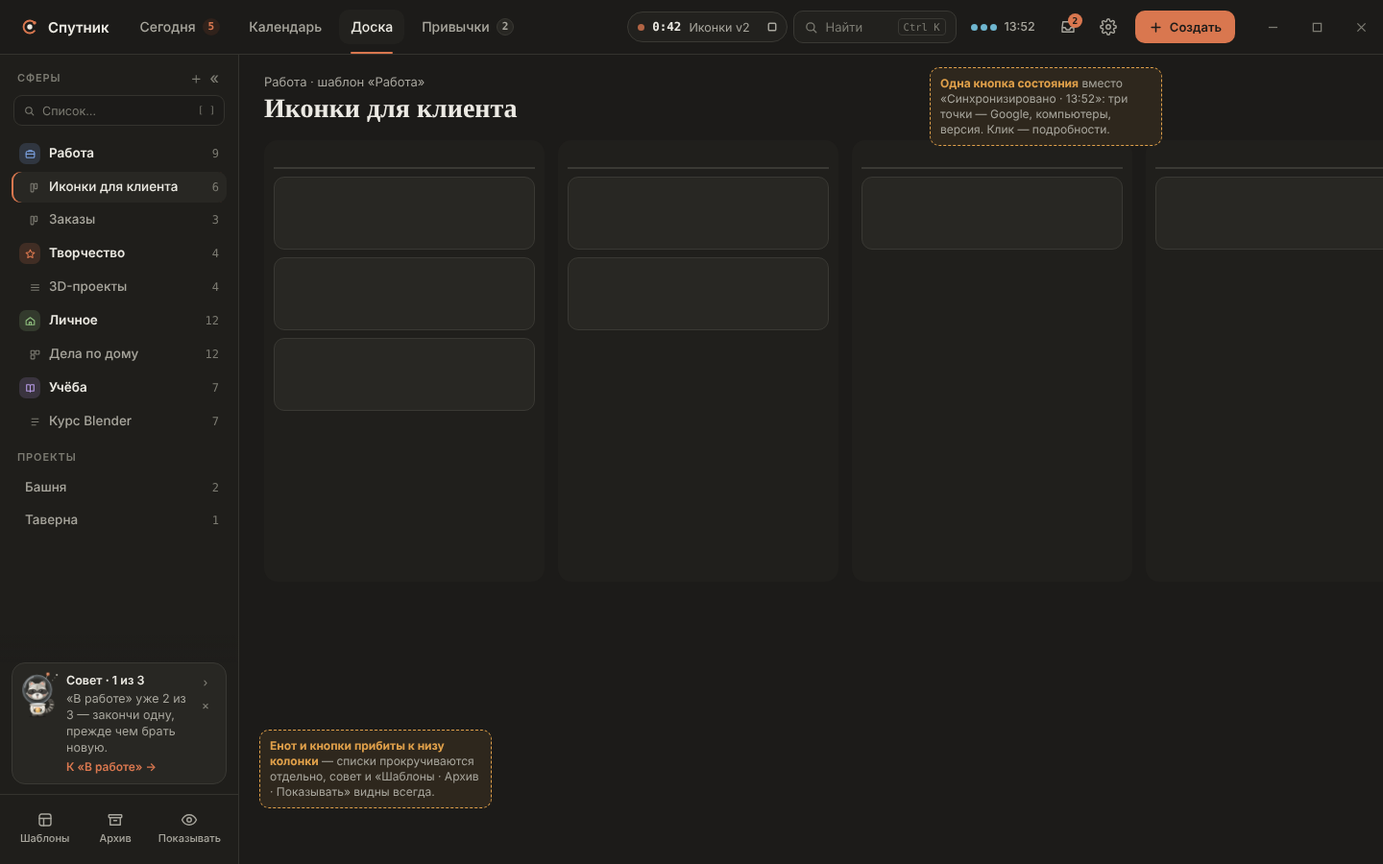
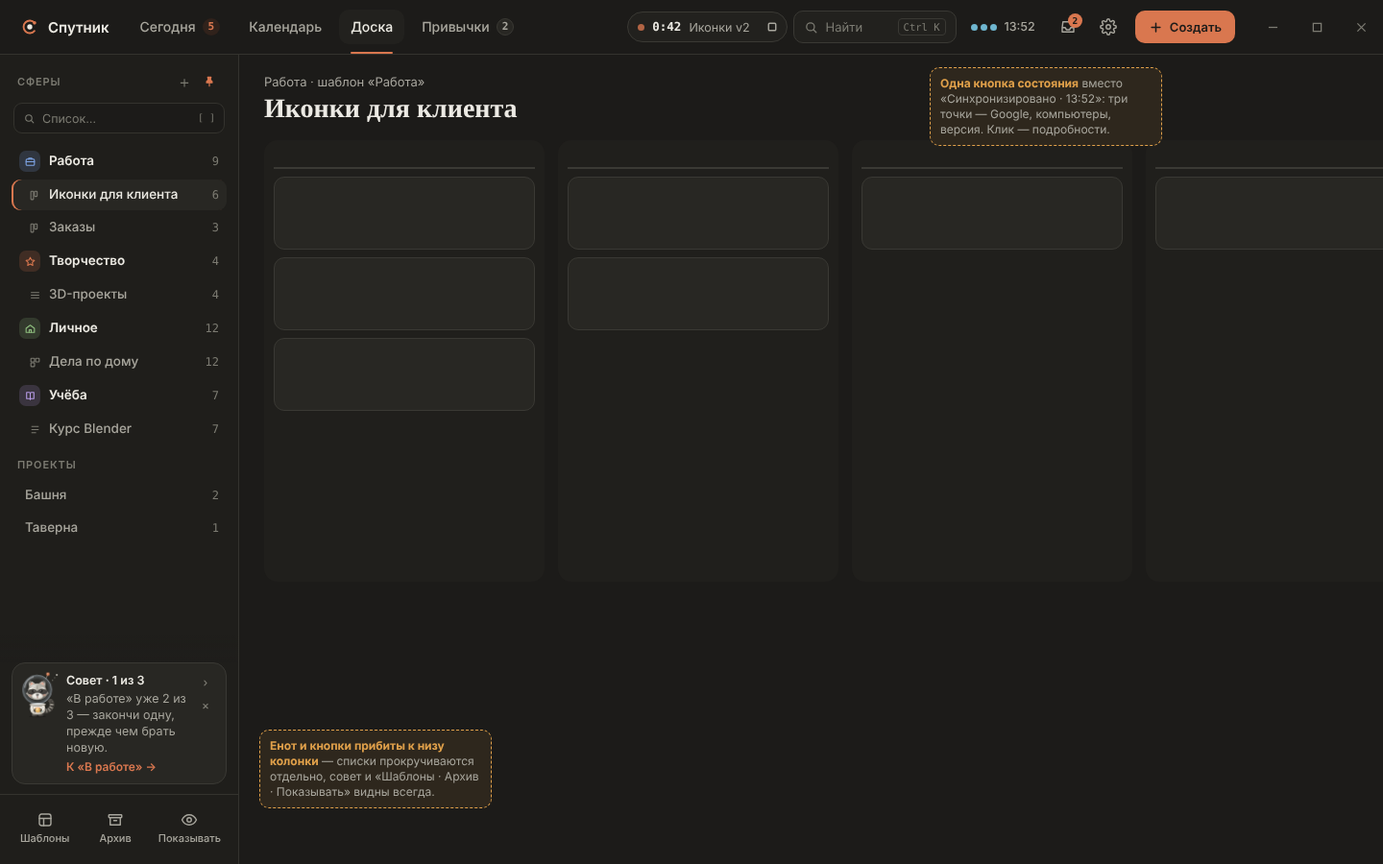
Дизайн: левая колонка закреплена/откреплена с выездом при наведении (как вертикальные вкладки Edge)
Claude-Session: https://claude.ai/code/session_01UrUbwLMz1RwJzU76MZ93kj

Changed region(s): [[0.0, 0.1244, 0.125, 0.6222]]

diff --git a/design/screens/Shell.dc.html b/design/screens/Shell.dc.html
@@ -85,7 +85,15 @@ button:focus-visible,a:focus-visible{outline:2px solid var(--clay);outline-offse
 .dock button:hover{background:var(--wash);color:var(--ink)}
 .dock svg{width:18px;height:18px;fill:none;stroke:currentColor;stroke-width:1.9;stroke-linecap:round;stroke-linejoin:round}
 .dock .b{position:absolute;top:7px;right:22px;width:7px;height:7px;border-radius:50%;background:var(--clay)}
-.h4 .tools{display:flex;gap:2px}
+.h4 .tools{display:flex;gap:2px;align-items:center}
+.h4 .tools button{width:24px;height:24px;border-radius:7px;display:grid;place-items:center}
+.h4 .tools button:hover{background:var(--wash);color:var(--ink)}
+.h4 .tools .pin{color:var(--ink-faint)}
+.h4 .tools .pin.on{color:var(--clay)}
+.side.over{position:absolute;left:0;top:56px;bottom:0;z-index:5;width:248px;box-shadow:12px 0 32px rgba(0,0,0,.45);border-right:1px solid var(--edge);background:color-mix(in srgb,var(--wash) 60%,var(--bg));animation:slidein .2s cubic-bezier(.2,.8,.2,1)}
+.sp-app[data-theme="light"] .side.over{box-shadow:12px 0 32px rgba(46,44,39,.14)}
+@keyframes slidein{from{transform:translateX(-184px);opacity:.6}to{transform:none;opacity:1}}
+.hoverhint{position:absolute;left:262px;top:70px;z-index:6}
 .side.rail{width:64px}
 .rail .scroll{padding:14px 10px 8px;align-items:center;gap:6px}
 .rail .scroll::after{display:none}
@@ -157,10 +165,10 @@ button:focus-visible,a:focus-visible{outline:2px solid var(--clay);outline-offse
   <sc-if value="{{off}}" hint-placeholder-val="{{false}}"><div style="display: flex; align-items: center; gap: 12px; padding: 6px 20px; background: color-mix(in srgb, var(--signal-overdue) 10%, var(--bg)); border-bottom: 1px solid var(--hairline); font-size: 13px; color: var(--ink-soft)"><svg class="coon" viewBox="0 0 240 260" width="34" height="37" role="img" aria-label="Енот: нет связи"><defs><radialGradient id="cn1-fur" cx="0.38" cy="0.3" r="0.85"><stop offset="0" stop-color="#D3CEC4"></stop><stop offset="0.55" stop-color="#A39E94"></stop><stop offset="1" stop-color="#6E6A62"></stop></radialGradient><radialGradient id="cn1-mask" cx="0.42" cy="0.3" r="0.9"><stop offset="0" stop-color="#5A5650"></stop><stop offset="1" stop-color="#2A2826"></stop></radialGradient><radialGradient id="cn1-cream" cx="0.42" cy="0.22" r="0.9"><stop offset="0" stop-color="#FFFDF8"></stop><stop offset="1" stop-color="#D8D2C6"></stop></radialGradient><radialGradient id="cn1-dark" cx="0.34" cy="0.28" r="0.8"><stop offset="0" stop-color="#6E6A62"></stop><stop offset="1" stop-color="#2A2826"></stop></radialGradient><radialGradient id="cn1-clay" cx="0.34" cy="0.25" r="0.95"><stop offset="0" stop-color="#FFB48C"></stop><stop offset="1" stop-color="#C85A30"></stop></radialGradient><radialGradient id="cn1-gold" cx="0.34" cy="0.25" r="0.95"><stop offset="0" stop-color="#FFE0A0"></stop><stop offset="1" stop-color="#D18F2C"></stop></radialGradient><radialGradient id="cn1-ear" cx="0.5" cy="0.65" r="0.7"><stop offset="0" stop-color="#F7CDBA"></stop><stop offset="1" stop-color="#D8927C"></stop></radialGradient><radialGradient id="cn1-suit" cx="0.34" cy="0.2" r="0.95"><stop offset="0" stop-color="#FCFAF5"></stop><stop offset="0.6" stop-color="#E1DCD2"></stop><stop offset="1" stop-color="#AFA89B"></stop></radialGradient><radialGradient id="cn1-glass" cx=".5" cy=".5" r=".5"><stop offset=".7" stop-color="#C6DDF0" stop-opacity=".03"></stop><stop offset="1" stop-color="#C6DDF0" stop-opacity=".28"></stop></radialGradient><radialGradient id="cn1-spec"><stop offset="0" stop-color="#fff" stop-opacity=".65"></stop><stop offset="1" stop-color="#fff" stop-opacity="0"></stop></radialGradient><linearGradient id="cn1-metal" x1="0" y1="0" x2="0" y2="1"><stop offset="0" stop-color="#F2EEE6"></stop><stop offset="1" stop-color="#9A948A"></stop></linearGradient></defs><ellipse cx="120" cy="251" rx="48" ry="6" fill="#000" opacity=".22"></ellipse><g class="c-float"><g class="c-tail"><path d="M150 222C178 228 200 212 202 186C203 176 200 170 196 166" fill="none" stroke="url(#cn1-fur)" stroke-width="22" stroke-linecap="round"></path><path d="M150 222C178 228 200 212 202 186C203 176 200 170 196 166" fill="none" stroke="#3A3733" stroke-width="22" stroke-dasharray="8 9" stroke-dashoffset="-7"></path><circle cx="196" cy="166" r="11" fill="url(#cn1-mask)"></circle></g><ellipse cx="102" cy="243" rx="17" ry="9.5" fill="url(#cn1-dark)"></ellipse><ellipse cx="138" cy="243" rx="17" ry="9.5" fill="url(#cn1-dark)"></ellipse><ellipse cx="96" cy="239" rx="5" ry="2" fill="#fff" opacity=".2"></ellipse><ellipse cx="132" cy="239" rx="5" ry="2" fill="#fff" opacity=".2"></ellipse><path d="M82 190C74 206 76 230 96 238C110 243 130 243 144 238C164 230 166 206 158 190C146 181 94 181 82 190Z" fill="url(#cn1-suit)"></path><path d="M96 238C110 243 130 243 144 238C154 234 160 226 162 216C152 230 136 234 120 234C104 234 90 230 80 222C84 230 89 235 96 238Z" fill="#000" opacity=".06"></path><rect x="107" y="201" width="26" height="18" rx="6" fill="url(#cn1-clay)"></rect><path d="M126 205A6 6 0 1 0 126 214.5" fill="none" stroke="#FFF8EE" stroke-width="2.3" stroke-linecap="round"></path><circle cx="120.5" cy="210" r="2.1" fill="#FFF8EE"></circle><circle cx="126" cy="205" r="2" fill="#FFE0A0"></circle><rect x="109" y="202.5" width="12" height="3" rx="1.5" fill="#fff" opacity=".25"></rect><ellipse cx="120" cy="185" rx="46" ry="10" fill="url(#cn1-metal)"></ellipse><ellipse cx="120" cy="182.5" rx="36" ry="3.6" fill="#fff" opacity=".4"></ellipse><g transform="rotate(5 120 160)"><g><path d="M80 96C69 78 70 58 80 49C95 50 108 60 113 73Z" fill="url(#cn1-fur)"></path><path d="M80 49C85 48 90 49 95 51C89 54 84 59 82 65C79 60 78 54 80 49Z" fill="#3A3733" opacity=".7"></path><path d="M85 87C81 75 82 63 86 58C94 61 101 67 105 74Z" fill="url(#cn1-ear)"></path></g><g class="c-ear"><g transform="translate(240 0) scale(-1 1)"><path d="M80 96C69 78 70 58 80 49C95 50 108 60 113 73Z" fill="url(#cn1-fur)"></path><path d="M80 49C85 48 90 49 95 51C89 54 84 59 82 65C79 60 78 54 80 49Z" fill="#3A3733" opacity=".7"></path><path d="M85 87C81 75 82 63 86 58C94 61 101 67 105 74Z" fill="url(#cn1-ear)"></path></g></g><path d="M120 64C150 64 171 82 173 107C179 111 183 116 185 122C179 124 176 127 175 131C167 147 146 157 120 157C94 157 73 147 65 131C64 127 61 124 55 122C57 116 61 111 67 107C69 82 90 64 120 64Z" fill="url(#cn1-fur)"></path><path d="M120 72C124 80 125 90 123 100H117C115 90 116 80 120 72Z" fill="#3A3733" opacity=".3"></path><path d="M73 98C80 87 94 85 105 91C95 91 85 94 77 102Z" fill="url(#cn1-cream)"></path><g transform="translate(240 0) scale(-1 1)"><path d="M73 98C80 87 94 85 105 91C95 91 85 94 77 102Z" fill="url(#cn1-cream)"></path></g><path d="M61 113C69 97 87 93 103 97C111 99 116 104 120 107C124 104 129 99 137 97C153 93 171 97 179 113C171 125 157 129 145 127C135 125 127 119 120 119C113 119 105 125 95 127C83 129 69 125 61 113Z" fill="url(#cn1-mask)"></path><g class="c-eye"><circle cx="97" cy="111" r="9.5" fill="#6E6A62" opacity=".55"></circle><circle cx="97" cy="111" r="8.2" fill="#141210"></circle><circle cx="97" cy="111" r="8.2" fill="none" stroke="#3A3530" stroke-width="1.4"></circle><path d="M94 108l6 6M100 108l-6 6" stroke="#4A4540" stroke-width="1.2" opacity=".85"></path><circle cx="100.2" cy="107.6" r="2.4" fill="#fff" opacity=".92"></circle><circle cx="93.6" cy="114.4" r="1" fill="#fff" opacity=".5"></circle></g><g transform="translate(240 0) scale(-1 1)"><g class="c-eye"><circle cx="97" cy="111" r="9.5" fill="#6E6A62" opacity=".55"></circle><circle cx="97" cy="111" r="8.2" fill="#141210"></circle><circle cx="97" cy="111" r="8.2" fill="none" stroke="#3A3530" stroke-width="1.4"></circle><path d="M94 108l6 6M100 108l-6 6" stroke="#4A4540" stroke-width="1.2" opacity=".85"></path><circle cx="100.2" cy="107.6" r="2.4" fill="#fff" opacity=".92"></circle><circle cx="93.6" cy="114.4" r="1" fill="#fff" opacity=".5"></circle></g></g><path d="M120 119C138 119 150 127 150 137C150 148 137 155 120 155C103 155 90 148 90 137C90 127 102 119 120 119Z" fill="url(#cn1-cream)"></path><path d="M65 131C73 147 94 157 120 157C146 157 167 147 175 131C162 143 142 149 120 149C98 149 78 143 65 131Z" fill="#000" opacity=".12"></path><ellipse cx="100" cy="78" rx="24" ry="9" transform="rotate(-12 100 78)" fill="url(#cn1-spec)"></ellipse><ellipse cx="80" cy="131" rx="9" ry="5" fill="#F29A80" opacity=".5"></ellipse><g transform="translate(240 0) scale(-1 1)"><ellipse cx="80" cy="131" rx="9" ry="5" fill="#F29A80" opacity=".5"></ellipse></g><path d="M111 128C111 123 129 123 129 128C129 132 124 135.5 120 135.5C116 135.5 111 132 111 128Z" fill="url(#cn1-dark)"></path><ellipse cx="116" cy="126.5" rx="3" ry="1.3" fill="#fff" opacity=".5"></ellipse><path d="M115 143C118 142 122 142 125 143" fill="none" stroke="#2E2C29" stroke-width="2.2" stroke-linecap="round"></path><circle cx="120" cy="100" r="82" fill="url(#cn1-glass)"></circle><circle cx="120" cy="100" r="82" fill="none" stroke="var(--rim)" stroke-width="2.6" opacity=".8"></circle><path d="M50 84C54 56 74 34 100 26" fill="none" stroke="#fff" stroke-width="7" stroke-linecap="round" opacity=".42"></path><path d="M196 124C190 144 178 158 164 166" fill="none" stroke="#fff" stroke-width="3.5" stroke-linecap="round" opacity=".16"></path><line x1="170" y1="40" x2="182" y2="16" stroke="#A9A398" stroke-width="3.2" stroke-linecap="round"></line><circle class="c-beacon" cx="183" cy="13" r="11" fill="#E8875C" opacity=".25"></circle><circle cx="183" cy="13" r="6" fill="url(#cn1-clay)"></circle><circle cx="181" cy="11" r="1.7" fill="#fff" opacity=".6"></circle><path d="M176 60C176 60 168 70 168 75C168 79.4 171.6 82 176 82C180.4 82 184 79.4 184 75C184 70 176 60 176 60Z" fill="#9FD0E2"></path><ellipse cx="173.6" cy="74" rx="1.8" ry="3" fill="#fff" opacity=".7"></ellipse></g><g><path d="M88 198C80 208 84 220 96 222" fill="none" stroke="#B5AEA2" stroke-width="16" stroke-linecap="round"></path><path d="M88 198C80 208 84 220 96 222" fill="none" stroke="#F1EDE5" stroke-width="11" stroke-linecap="round" transform="translate(-1 -1.5)"></path><circle cx="97" cy="222" r="10" fill="url(#cn1-dark)"></circle><ellipse cx="94" cy="218.5" rx="3" ry="1.8" fill="#fff" opacity=".3"></ellipse></g><g><path d="M154 196C168 188 176 176 176 164" fill="none" stroke="#B5AEA2" stroke-width="16" stroke-linecap="round"></path><path d="M154 196C168 188 176 176 176 164" fill="none" stroke="#F1EDE5" stroke-width="11" stroke-linecap="round" transform="translate(-1 -1.5)"></path><circle cx="176" cy="160" r="10" fill="url(#cn1-dark)"></circle><ellipse cx="173" cy="156.5" rx="3" ry="1.8" fill="#fff" opacity=".3"></ellipse></g></g></svg><span><b style="color: var(--ink)">Нет связи с Google.</b> Повторю через минуту — всё, что сделаешь сейчас, сохранится и уйдёт само.</span><span style="flex: 1"></span><button type="button" class="mini">Повторить</button></div></sc-if>
 
   <div class="body">
-    <sc-if value="{{wide}}" hint-placeholder-val="{{true}}">
-    <aside class="side" aria-label="Списки">
+    <sc-if value="{{showWide}}" hint-placeholder-val="{{true}}">
+    <aside class="{{sideCls}}" aria-label="Списки" onMouseLeave="{{leave}}">
       <div class="scroll">
-        <div class="h4">Сферы <span class="tools"><button type="button" title="Новая сфера или список">＋</button><button type="button" title="Свернуть колонку · Ctrl+B" onClick="{{fold}}">«</button></span></div>
+        <div class="h4">Сферы <span class="tools"><button type="button" title="Новая сфера или список">＋</button><button type="button" class="{{pinCls}}" aria-pressed="{{pinP}}" title="{{pinTitle}}" onClick="{{togglePin}}"><svg viewBox="0 0 24 24" width="14" height="14" style="fill: {{pinFill}}; stroke: currentColor; stroke-width: 2; stroke-linecap: round; stroke-linejoin: round"><path d="M9 4h6l-1 5 3 3v2H7v-2l3-3zM12 14v6"></path></svg></button></span></div>
         <div class="flt"><svg viewBox="0 0 24 24"><circle cx="11" cy="11" r="6"></circle><path d="M20 20l-4.5-4.5"></path></svg>Список…<kbd>[ ]</kbd></div>
         <div class="sph" style="--sc: var(--type-work)"><i><svg viewBox="0 0 24 24"><rect x="4" y="7" width="16" height="12" rx="2"></rect><path d="M9 7V5h6v2M4 12h16"></path></svg></i>Работа<span class="n">9</span></div>
         <div class="lst on"><svg viewBox="0 0 24 24"><rect x="4" y="4" width="5" height="16" rx="1"></rect><rect x="11" y="4" width="5" height="10" rx="1"></rect></svg>Иконки для клиента<span class="n">6</span></div>
@@ -186,9 +194,9 @@ button:focus-visible,a:focus-visible{outline:2px solid var(--clay);outline-offse
     </aside>
     </sc-if>
     <sc-if value="{{narrow}}" hint-placeholder-val="{{false}}">
-    <aside class="side rail" aria-label="Списки, свёрнуто">
+    <aside class="side rail" aria-label="Списки, свёрнуто" onMouseEnter="{{enter}}">
       <div class="scroll">
-        <button type="button" class="exp" title="Развернуть колонку · Ctrl+B" onClick="{{fold}}">»</button>
+        <button type="button" class="exp" title="Закрепить колонку · Ctrl+B" onClick="{{togglePin}}"><svg viewBox="0 0 24 24" width="14" height="14" style="fill: none; stroke: currentColor; stroke-width: 2; stroke-linecap: round; stroke-linejoin: round"><path d="M9 4h6l-1 5 3 3v2H7v-2l3-3zM12 14v6"></path></svg></button>
         <button type="button" class="rb on" style="--sc: var(--type-work)" title="Работа · Иконки для клиента"><svg viewBox="0 0 24 24"><rect x="4" y="7" width="16" height="12" rx="2"></rect><path d="M9 7V5h6v2M4 12h16"></path></svg><span class="n">9</span></button>
         <button type="button" class="rb" style="--sc: var(--clay)" title="Творчество"><svg viewBox="0 0 24 24"><path d="M12 4l2.5 5 5.5.8-4 3.9.9 5.5L12 16.6 7.1 19.2l.9-5.5-4-3.9 5.5-.8z"></path></svg><span class="n">4</span></button>
         <button type="button" class="rb" style="--sc: var(--type-personal)" title="Личное"><svg viewBox="0 0 24 24"><path d="M4 11l8-6 8 6v8H4z"></path><path d="M10 19v-5h4v5"></path></svg><span class="n">12</span></button>
@@ -230,18 +238,19 @@ button:focus-visible,a:focus-visible{outline:2px solid var(--clay);outline-offse
     </div>
   </sc-if>
 
+  <sc-if value="{{showHov}}" hint-placeholder-val="{{false}}"><div class="ann hoverhint"><b>Выехала поверх доски</b> — доска не сдвигается. Увёл мышь — через 0,3 с уедет обратно. 📌 — закрепить.</div></sc-if>
   <sc-if value="{{showAnn}}" hint-placeholder-val="{{true}}">
     <div class="ann" style="left: 270px; top: 760px"><b>Енот и кнопки прибиты к низу колонки</b> — списки прокручиваются отдельно, совет и «Шаблоны · Архив · Показывать» видны всегда.</div>
     <div class="ann" style="right: 230px; top: 70px"><b>Одна кнопка состояния</b> вместо «Синхронизировано · 13:52»: три точки — Google, компьютеры, версия. Клик — подробности.</div>
   </sc-if>
 </div>
 </x-dc>
-<script type="text/x-dc" data-dc-script data-props='{"theme":{"editor":"enum","options":["dark","light"],"default":"dark"},"demo":{"editor":"enum","options":["обычный","состояние","обновление","установка","нужен вход","нет связи","свёрнуто"],"default":"обычный"},"$preview":{"width":1440,"height":900}}'>
+<script type="text/x-dc" data-dc-script data-props='{"theme":{"editor":"enum","options":["dark","light"],"default":"dark"},"demo":{"editor":"enum","options":["обычный","состояние","обновление","установка","нужен вход","нет связи","свёрнуто","наведение"],"default":"обычный"},"$preview":{"width":1440,"height":900}}'>
 class Component extends DCLogic {
   constructor(props) {
     super(props);
     var d = this.props.demo || 'обычный';
-    this.state = { stat: d === 'состояние' || d === 'нужен вход', upd: d === 'обновление' || d === 'установка', tip: 0, tipOn: true, fold: d === 'свёрнуто' };
+    this.state = { stat: d === 'состояние' || d === 'нужен вход', upd: d === 'обновление' || d === 'установка', tip: 0, tipOn: true, fold: d === 'свёрнуто' || d === 'наведение', hover: d === 'наведение' };
   }
   renderVals() {
     var self = this, st = this.state, d = this.props.demo || 'обычный';
@@ -264,10 +273,16 @@ class Component extends DCLogic {
       s2: needLogin ? 'нужно разрешить скрытую папку на Drive' : 'синхронизировано в 13:50 · 2 компьютера',
       ver: '0.5.13', c3: hasUpd ? 'var(--clay)' : 'var(--signal-done)', s3cls: hasUpd ? 'w' : 'ok',
       s3: hasUpd ? 'вышла 0.5.14 · меньше минуты' : 'последняя версия · проверено в 13:40', needLogin: needLogin,
-      tip: TIPS[st.tip % 3], tipAct: ACTS[st.tip % 3], tipN: st.tip % 3 + 1, tipOn: st.tipOn, wide: !st.fold, narrow: st.fold, fold: function () { self.setState({ fold: !self.state.fold }); },
+      tip: TIPS[st.tip % 3], tipAct: ACTS[st.tip % 3], tipN: st.tip % 3 + 1, tipOn: st.tipOn, wide: !st.fold, narrow: st.fold, showWide: !st.fold || st.hover, sideCls: st.fold ? 'side over' : 'side',
+      pinP: st.fold ? 'false' : 'true', pinCls: st.fold ? 'pin' : 'pin on', pinFill: st.fold ? 'none' : 'currentColor',
+      pinTitle: st.fold ? 'Закрепить колонку · Ctrl+B' : 'Открепить: колонка спрячется и будет выезжать при наведении · Ctrl+B',
+      togglePin: function () { self.setState({ fold: !self.state.fold, hover: false }); },
+      enter: function () { if (self.state.fold) self.setState({ hover: true }); },
+      leave: function () { if (self.state.fold) self.setState({ hover: false }); },
+      fold: function () { self.setState({ fold: !self.state.fold }); },
       nextTip: function () { self.setState({ tip: self.state.tip + 1 }); },
       hideTip: function () { self.setState({ tipOn: false }); },
-      showAnn: d === 'обычный'
+      showAnn: d === 'обычный', showHov: d === 'наведение' && st.hover
     };
   }
 }

diff --git a/docs/design-v2.md b/docs/design-v2.md
@@ -570,10 +570,22 @@ Claude выбирает список только в чатах («запиши 
 Клавиши: `Ctrl+,` — открыть, `Esc` — закрыть, `↑↓` по вкладкам, когда фокус слева.
 
 ### Доработки 21.10 (вторая итерация)
-- **Свернуть колонку** — ««» в заголовке «СФЕРЫ» или `Ctrl+B` (`settings.sideFold`): колонка 64 px — кнопки сфер 40×40 со
-  значком в цвете сферы и числом открытых в углу (сфера с открытым списком — рамка clay; клик — меню списков сферы), «»» сверху
-  разворачивает; совет енота — кнопка-мордочка `face` 46 px с золотой точкой, если есть совет (клик — совет поповером);
-  док — три значка без подписей (подсказки в `title`). Доска получает всю ширину. `demo: свёрнуто`.
+- **Колонка: закреплена / откреплена (как вертикальные вкладки в Edge)** — `settings.sidePin` (по умолчанию `true`).
+  - **Что сворачивается**: вся левая колонка доски целиком — сферы и списки, фильтр «Список…», «Проекты», совет енота и док
+    «Шаблоны · Архив · Показывать». Шапка не меняется. На «Сегодня», «Календаре» и «Привычках» колонки и так нет.
+  - **Кнопка-булавка** 📌 в заголовке «СФЕРЫ» справа (вместо «««»): заливка clay — закреплена; контур — откреплена.
+    `Ctrl+B` — то же самое. Подсказка: «Открепить: колонка спрячется и будет выезжать при наведении».
+  - **Закреплена** — как сейчас: 248 px, доска сдвинута вправо.
+  - **Откреплена** — на месте колонки тонкая полоса 64 px (`demo: свёрнуто`): «📌» сверху (закрепить), кнопки сфер 40×40 со
+    значком в цвете сферы и числом открытых в углу (сфера активного списка — рамка clay), мордочка енота `face` 46 px с золотой
+    точкой, если есть совет, внизу три значка дока без подписей. Доска занимает всю оставшуюся ширину.
+  - **Наведение** на полосу (`demo: наведение`): через **150 мс** колонка **выезжает поверх доски** на полную ширину 248 px —
+    доска НЕ сдвигается (оверлей `position: absolute`, тень вправо 12/32 px, рамка справа); анимация — сдвиг из −184 px и
+    прозрачность, 200 мс `--ease-out`. Всё внутри работает как в закреплённой. Мышь ушла с колонки — через **300 мс** уезжает
+    обратно (если за это время вернулась — остаётся). Пока открыт фильтр, меню списка (правый клик) или идёт перетаскивание
+    карточки на список — не уезжает. Клик по списку открывает его, и колонка уезжает сразу.
+  - Клавиатура: `Ctrl+B` закрепляет/открепляет; при откреплённой — `[`/`]` и фильтр (`Ctrl+Shift+L`) временно выдвигают
+    колонку, `Esc` — убирает. При «Анимации: выкл» выезд мгновенный.
 - **Фильтр списков** в колонке: поле «Список…» под «СФЕРЫ» (подсказка `[ ]`), ввод фильтрует сферы и списки; Enter — открыть
   первый; показывается, если списков больше 6 (на макете — всегда).
 - **Совет с действием**: под текстом ссылка clay «К «В работе» →» / «Открыть смету →» — что предлагает енот, то и делает
